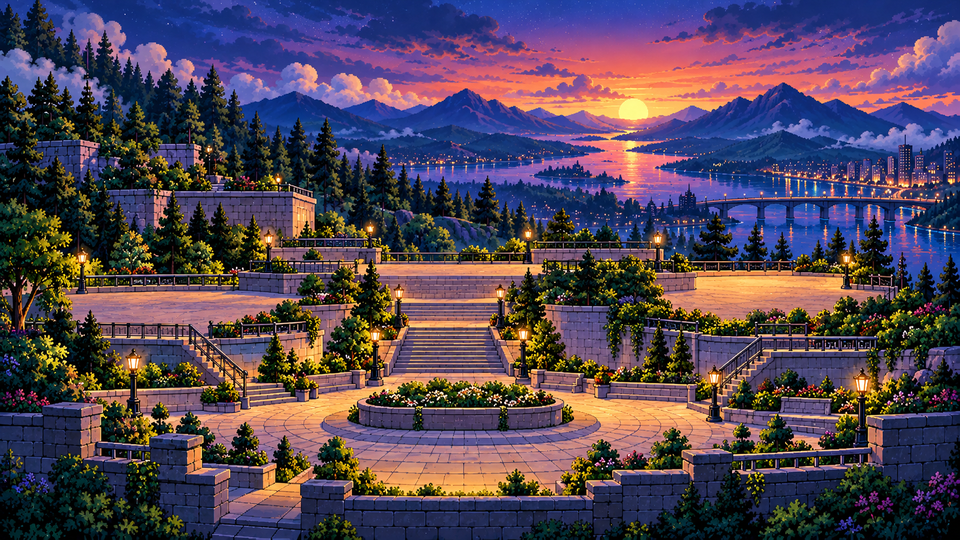
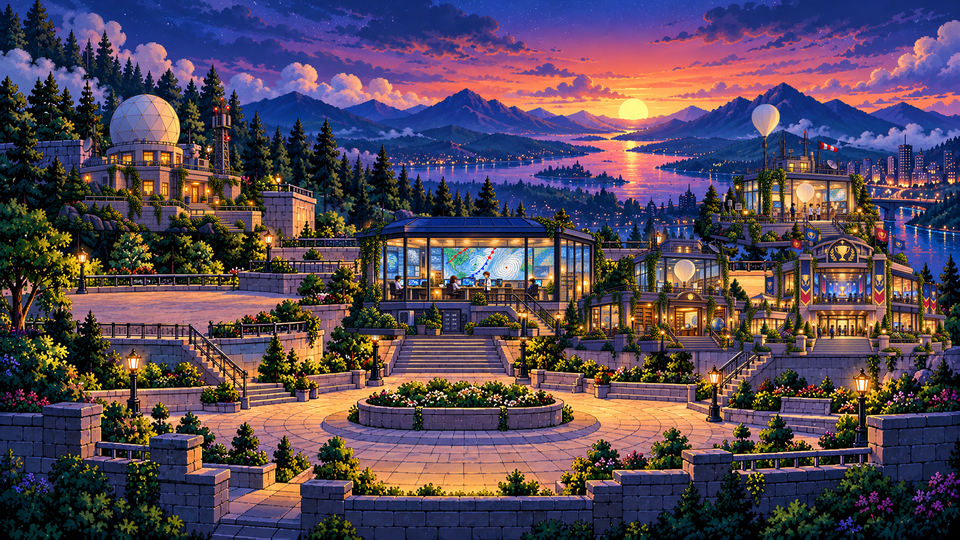
feat(hub): интегрировать все 5 зданий на террасы кампуса и обновить интерактивные хотспоты

Changed region(s): [[0.3438, 0.1778, 1.0, 0.6815], [0.0312, 0.1778, 0.2812, 0.4444]]

diff --git a/packages/world-engine/src/scenes/hub/HubScene.ts b/packages/world-engine/src/scenes/hub/HubScene.ts
@@ -138,8 +138,8 @@ export class HubScene extends Phaser.Scene {
 
   private setupAtmosphericVfx(): void {
     // 1. Radar mast red obstruction beacon
-    const radarBeacon = this.add.circle(216, 78, 3.5, 0xff2222, 0.95).setDepth(20);
-    const radarGlow = this.add.circle(216, 78, 8, 0xff3333, 0.35).setDepth(19);
+    const radarBeacon = this.add.circle(138, 103, 3.5, 0xff2222, 0.95).setDepth(20);
+    const radarGlow = this.add.circle(138, 103, 8, 0xff3333, 0.35).setDepth(19);
 
     this.tweens.add({
       targets: [radarBeacon, radarGlow],
@@ -152,8 +152,8 @@ export class HubScene extends Phaser.Scene {
     });
 
     // 2. Aerology mast beacon
-    const aeroBeacon = this.add.circle(778, 94, 3, 0xff4422, 0.9).setDepth(20);
-    const aeroGlow = this.add.circle(778, 94, 7, 0xff5533, 0.3).setDepth(19);
+    const aeroBeacon = this.add.circle(780, 115, 3, 0xff4422, 0.9).setDepth(20);
+    const aeroGlow = this.add.circle(780, 115, 7, 0xff5533, 0.3).setDepth(19);
 
     this.tweens.add({
       targets: [aeroBeacon, aeroGlow],
@@ -504,55 +504,55 @@ export class HubScene extends Phaser.Scene {
       },
       {
         id: 'hub.location.radar',
-        x: 164,
-        y: 136,
-        width: 126,
-        height: 43,
+        x: 155,
+        y: 165,
+        width: 140,
+        height: 100,
         title: 'ДМРЛ-С • Радарный комплекс',
         action: () => this.openFacilityDossier('radar'),
       },
       {
         id: 'hub.location.maps-analysis',
         x: 150,
-        y: 232,
-        width: 150,
-        height: 43,
+        y: 250,
+        width: 130,
+        height: 70,
         title: 'Картографический класс',
         action: () => this.openFacilityDossier('synoptic-center'),
       },
       {
         id: 'hub.location.aerology',
-        x: 742,
-        y: 169,
-        width: 146,
-        height: 44,
+        x: 786,
+        y: 179,
+        width: 140,
+        height: 100,
         title: 'Аэрологический павильон',
         action: () => this.openFacilityDossier('aerology'),
       },
       {
         id: 'hub.location.archive',
-        x: 620,
-        y: 284,
-        width: 132,
-        height: 43,
+        x: 657,
+        y: 292,
+        width: 130,
+        height: 90,
         title: 'Научный архив',
         action: () => this.openFacilityDossier('archive'),
       },
       {
         id: 'hub.location.tournament-hall',
-        x: 826,
-        y: 289,
-        width: 154,
-        height: 43,
+        x: 841,
+        y: 274,
+        width: 130,
+        height: 90,
         title: 'Турнирный зал',
         action: () => this.openFacilityDossier('tournament-hall'),
       },
       {
         id: 'hub.location.synoptic-center',
-        x: 445,
-        y: 198,
-        width: 198,
-        height: 42,
+        x: 480,
+        y: 236,
+        width: 180,
+        height: 80,
         title: 'Оперативный зал анализа',
         action: () => this.openFacilityDossier('synoptic-center'),
       },
